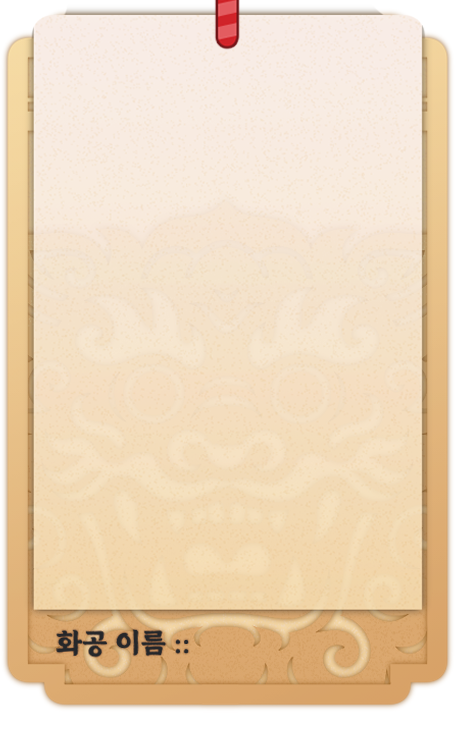
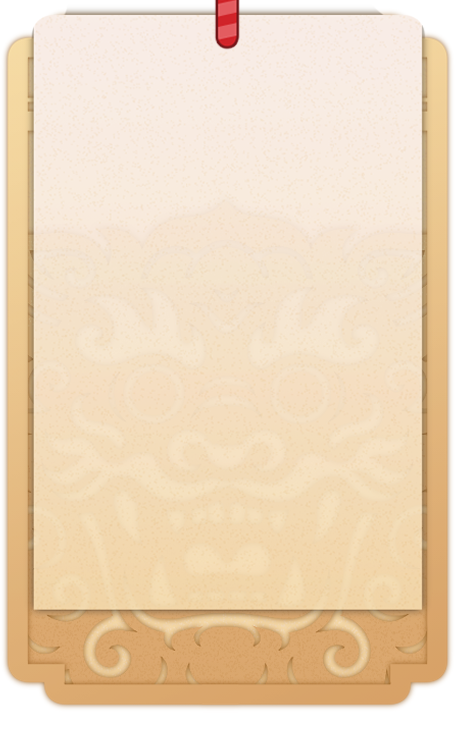
Feat: 도화비님 업데이

Changed region(s): [[0.1231, 0.8358, 0.3692, 0.8977]]

diff --git a/src/app/(root)/time-table/83b56e00-b93b-4dc0-81ff-0521c891ee26/_components/ProfileImageContainer.tsx b/src/app/(root)/time-table/83b56e00-b93b-4dc0-81ff-0521c891ee26/_components/ProfileImageContainer.tsx
@@ -15,6 +15,56 @@ import {
   profileTextInfo,
 } from "../_settings/settings";
 
+interface ProfileTextProps {
+  profileText: string;
+  profileTextPlaceholder: string;
+  isProfileTextVisible: boolean;
+}
+
+const ProfileTextTitle = () => {
+  return (
+    <p style={{ fontSize: 28, width: 140, position: "relative" }}>
+      화공 이름 <span className="relative bottom-1">::</span>
+    </p>
+  );
+};
+
+const ProfileText = ({
+  profileText,
+  profileTextPlaceholder,
+  isProfileTextVisible,
+}: ProfileTextProps) => {
+  if (!isProfileTextVisible) return null;
+  return (
+    <div
+      style={{
+        color: colors["first"]["secondary"],
+        fontFamily: fontOption.primary,
+        bottom: 70,
+        left: 56,
+        width: "100%",
+        height: profileTextInfo.size.height,
+        filter: "blur(0.5px)",
+      }}
+      className="absolute z-30 flex justify-start items-center "
+    >
+      <ProfileTextTitle />
+      <div
+        style={{ width: 200, height: 80 }}
+        className="flex justify-center items-center"
+      >
+        <AutoResizeText
+          style={{}}
+          className="text-center"
+          maxFontSize={profileTextInfo.font.maxSize}
+        >
+          {profileText ? profileText : profileTextPlaceholder}
+        </AutoResizeText>
+      </div>
+    </div>
+  );
+};
+
 interface ProfileImageProps {
   currentTheme: TTheme;
   imageSrc: string | null;
@@ -49,30 +99,13 @@ const ProfileImageContainer: React.FC<ProfileImageProps> = ({
       draggable={false}
     >
       {isProfileTextVisible && (
-        <div
-          style={{
-            color: colors[currentTheme]["primary"],
-            filter: "blur(0.7px)",
-            bottom: profileTextInfo.position.bottom,
-            right: profileTextInfo.position.right,
-            width: profileTextInfo.size.width,
-            height: profileTextInfo.size.height,
-          }}
-          className="absolute z-30 flex justify-center items-center "
-        >
-          <AutoResizeText
-            style={{
-              fontFamily: fontOption.primary,
-              color: colors[currentTheme]["secondary"],
-            }}
-            className="text-center"
-            padding={{ right: 8, left: 8 }}
-            maxFontSize={profileTextInfo.font.maxSize}
-            minFontSize={profileTextInfo.font.minSize}
-          >
-            {profileText ? profileText : profileTextPlaceholder}
-          </AutoResizeText>
-        </div>
+        <>
+          <ProfileText
+            isProfileTextVisible={isProfileTextVisible}
+            profileText={profileText}
+            profileTextPlaceholder={profileTextPlaceholder}
+          />
+        </>
       )}
       <div
         className="absolute"

diff --git a/src/app/(root)/time-table/83b56e00-b93b-4dc0-81ff-0521c891ee26/_components/TimeTableEditor.tsx b/src/app/(root)/time-table/83b56e00-b93b-4dc0-81ff-0521c891ee26/_components/TimeTableEditor.tsx
@@ -10,12 +10,14 @@ import { TimeTableDesignGuideProvider } from "@/contexts/TimeTableDesignGuideCon
 import { useTimeTableEditor } from "@/hooks";
 
 import TimeTableInputList from "@/components/TimeTable/FixedComponents/TimeTableInputList";
+import TimeTableDesignGuideController from "@/components/tools/TimeTableDesignGuideController";
+import { isGuideEnabled } from "@/utils/time-table/data";
 import { placeholders } from "../_settings/general";
 import {
   CARD_INPUT_CONFIG,
   defaultTheme,
-  profileImageWidth,
   profileImageHeight,
+  profileImageWidth,
   weekdayOption,
 } from "../_settings/settings";
 import TimeTableContent from "./TimeTableContent";
@@ -48,9 +50,9 @@ const TimeTableEditorContent: React.FC = () => {
             placeholders={placeholders}
           />
         </TimeTablePreview>
-        <TimeTableForm 
-          onReset={resetData} 
-          addons={null}
+        <TimeTableForm
+          onReset={resetData}
+          addons={isGuideEnabled && <TimeTableDesignGuideController />}
           cropWidth={profileImageWidth}
           cropHeight={profileImageHeight}
         >

diff --git a/src/app/(root)/time-table/83b56e00-b93b-4dc0-81ff-0521c891ee26/_components/TimeTableContent.tsx b/src/app/(root)/time-table/83b56e00-b93b-4dc0-81ff-0521c891ee26/_components/TimeTableContent.tsx
@@ -3,9 +3,10 @@ import { useTimeTableDesignGuideContext } from "@/contexts/TimeTableDesignGuideC
 import React from "react";
 import { Imgs } from "../_img/imgs";
 
+import TimeTableDesignGuide from "@/components/tools/TimeTableDesignGuide";
 import { TPlaceholders } from "@/types/time-table/data";
 import { TTheme } from "@/types/time-table/theme";
-import { TDefaultCard } from "@/utils/time-table/data";
+import { isGuideEnabled, TDefaultCard } from "@/utils/time-table/data";
 import ProfileImageContainer from "./ProfileImageContainer";
 import TimeTableGrid from "./TimeTableGrid";
 import TimeTableWeekFlag from "./TimeTableWeekFlag";
@@ -39,6 +40,7 @@ const TimeTableContent: React.FC<TimeTableContentProps> = ({
         backgroundRepeat: "no-repeat",
       }}
     >
+      {isGuideEnabled && <TimeTableDesignGuide />}
       <TimeTableWeekFlag currentTheme={currentTheme} weekDates={weekDates} />
       <TimeTableGrid
         data={data}

diff --git a/src/app/(root)/time-table/83b56e00-b93b-4dc0-81ff-0521c891ee26/_settings/settings.ts b/src/app/(root)/time-table/83b56e00-b93b-4dc0-81ff-0521c891ee26/_settings/settings.ts
@@ -155,8 +155,7 @@ export const profileTextInfo = {
     right: 44,
   },
   font: {
-    maxSize: 32,
-    minSize: 16,
+    maxSize: 28,
   },
 };
 
